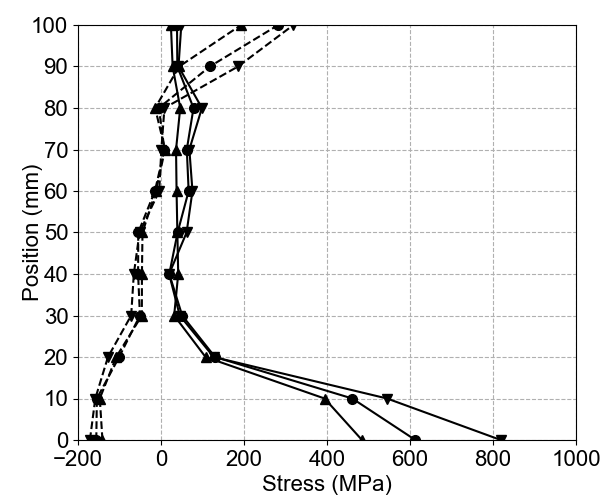
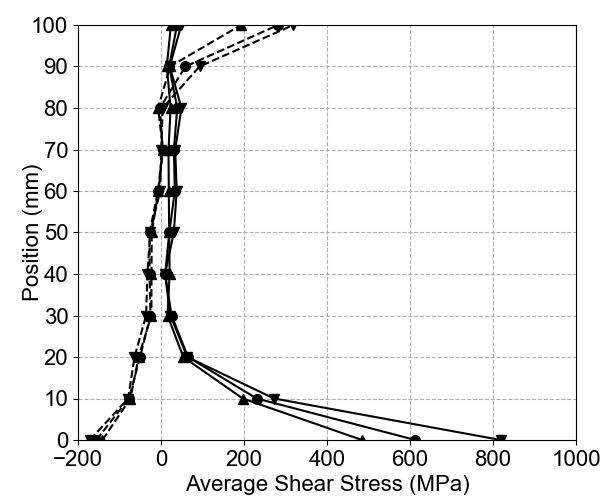
190628

Changed region(s): [[0.15, 0.03, 0.84, 0.9], [0.3, 0.93, 0.78, 0.99]]

diff --git a/FilletWeldComparison.py b/FilletWeldComparison.py
@@ -12,10 +12,14 @@ data = []
 
 for j, line in enumerate(content):
     temp = line.split()
-    if j == 0:
-        data.append([float(i) for i in temp])
-    else:
-        data.append([float(i)/50 for i in temp])
+    data.append([float(i) for i in temp])
+        
+for i in range(1, 7):
+    for j in range(0, 11):
+        if j == 0 or j == 10:
+            data[i][j] = data[i][j]/50
+        else:
+            data[i][j] = data[i][j]/100
 
 plt.figure(figsize=(6, 5))
 ax1 = plt.subplot(1, 1, 1)
@@ -33,7 +37,7 @@ plt.xticks([float(i)/50*1000 for i in range(-10, 60, 10)], fontproperties=fontpr
 plt.ylim(0, 100)
 plt.xlim(-200, 1000)
 plt.ylabel('Position (mm)', fontproperties=fontprop)
-plt.xlabel('Stress (MPa)', fontproperties=fontprop)
+plt.xlabel('Average Shear Stress (MPa)', fontproperties=fontprop)
 ax1.yaxis.set_label_coords(-0.07, 0.5)
 plt.grid(linestyle='--')
 plt.subplots_adjust(left=0.13, right=0.96, wspace=0.22, hspace=0.1, bottom=0.12, top=0.95)

diff --git a/SX1-2&SY1-2LoadDisp.py b/SX1-2&SY1-2LoadDisp.py
@@ -55,6 +55,16 @@ for i, obj in enumerate(data2.Uy2):
     if obj > 0:
         factor = 0.38/132*obj+1
         data2.Fy2[i] = data2.Fy2[i]*factor
+        
+fileout = "ModifiedDataSX1-2-1.txt"
+filep1 = open(fileout, 'w')
+for i, obj in enumerate(data2.Uy1):
+    filep1.write("%f\n" % data2.Fy1[i])
+
+fileout = "ModifiedDataSX1-2-2.txt"
+filep2 = open(fileout, 'w')
+for i, obj in enumerate(data2.Uy2):
+    filep2.write("%f\n" % data2.Fy2[i])
 
 ax2 = plt.subplot(2, 2, 1)
 #plt.plot(Uy2[0:-200], Fy2[0:-200])
